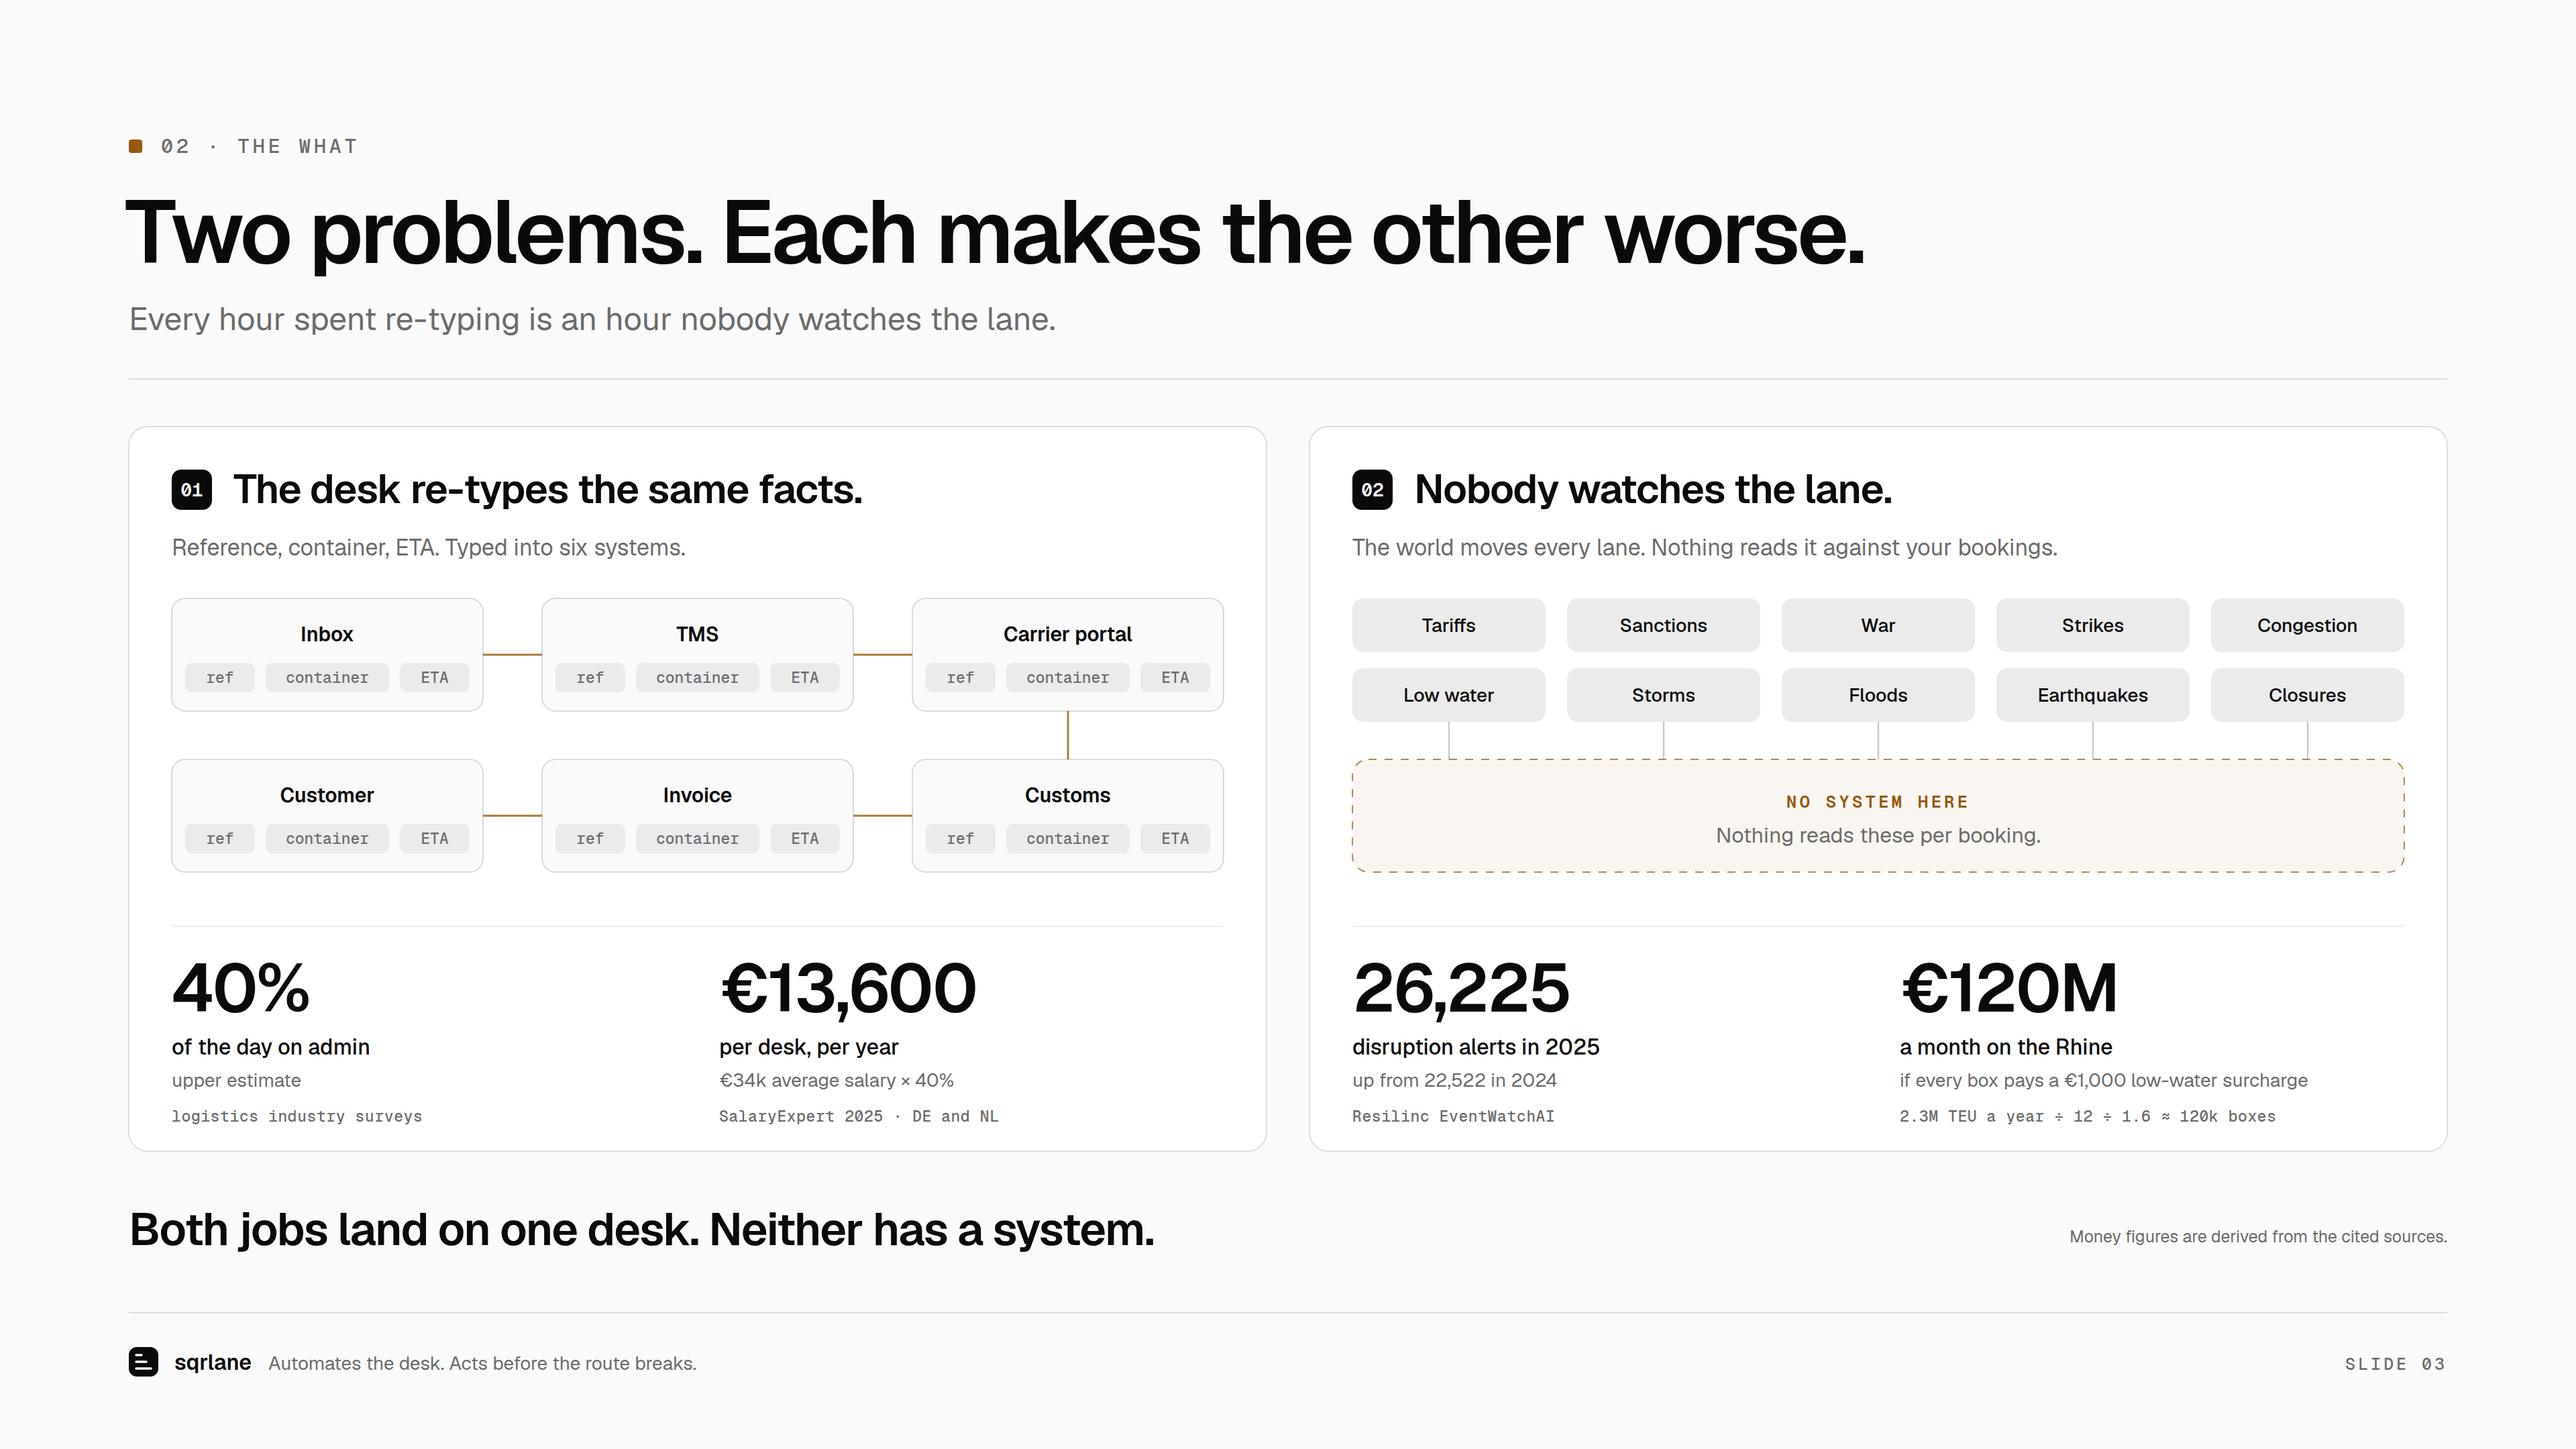
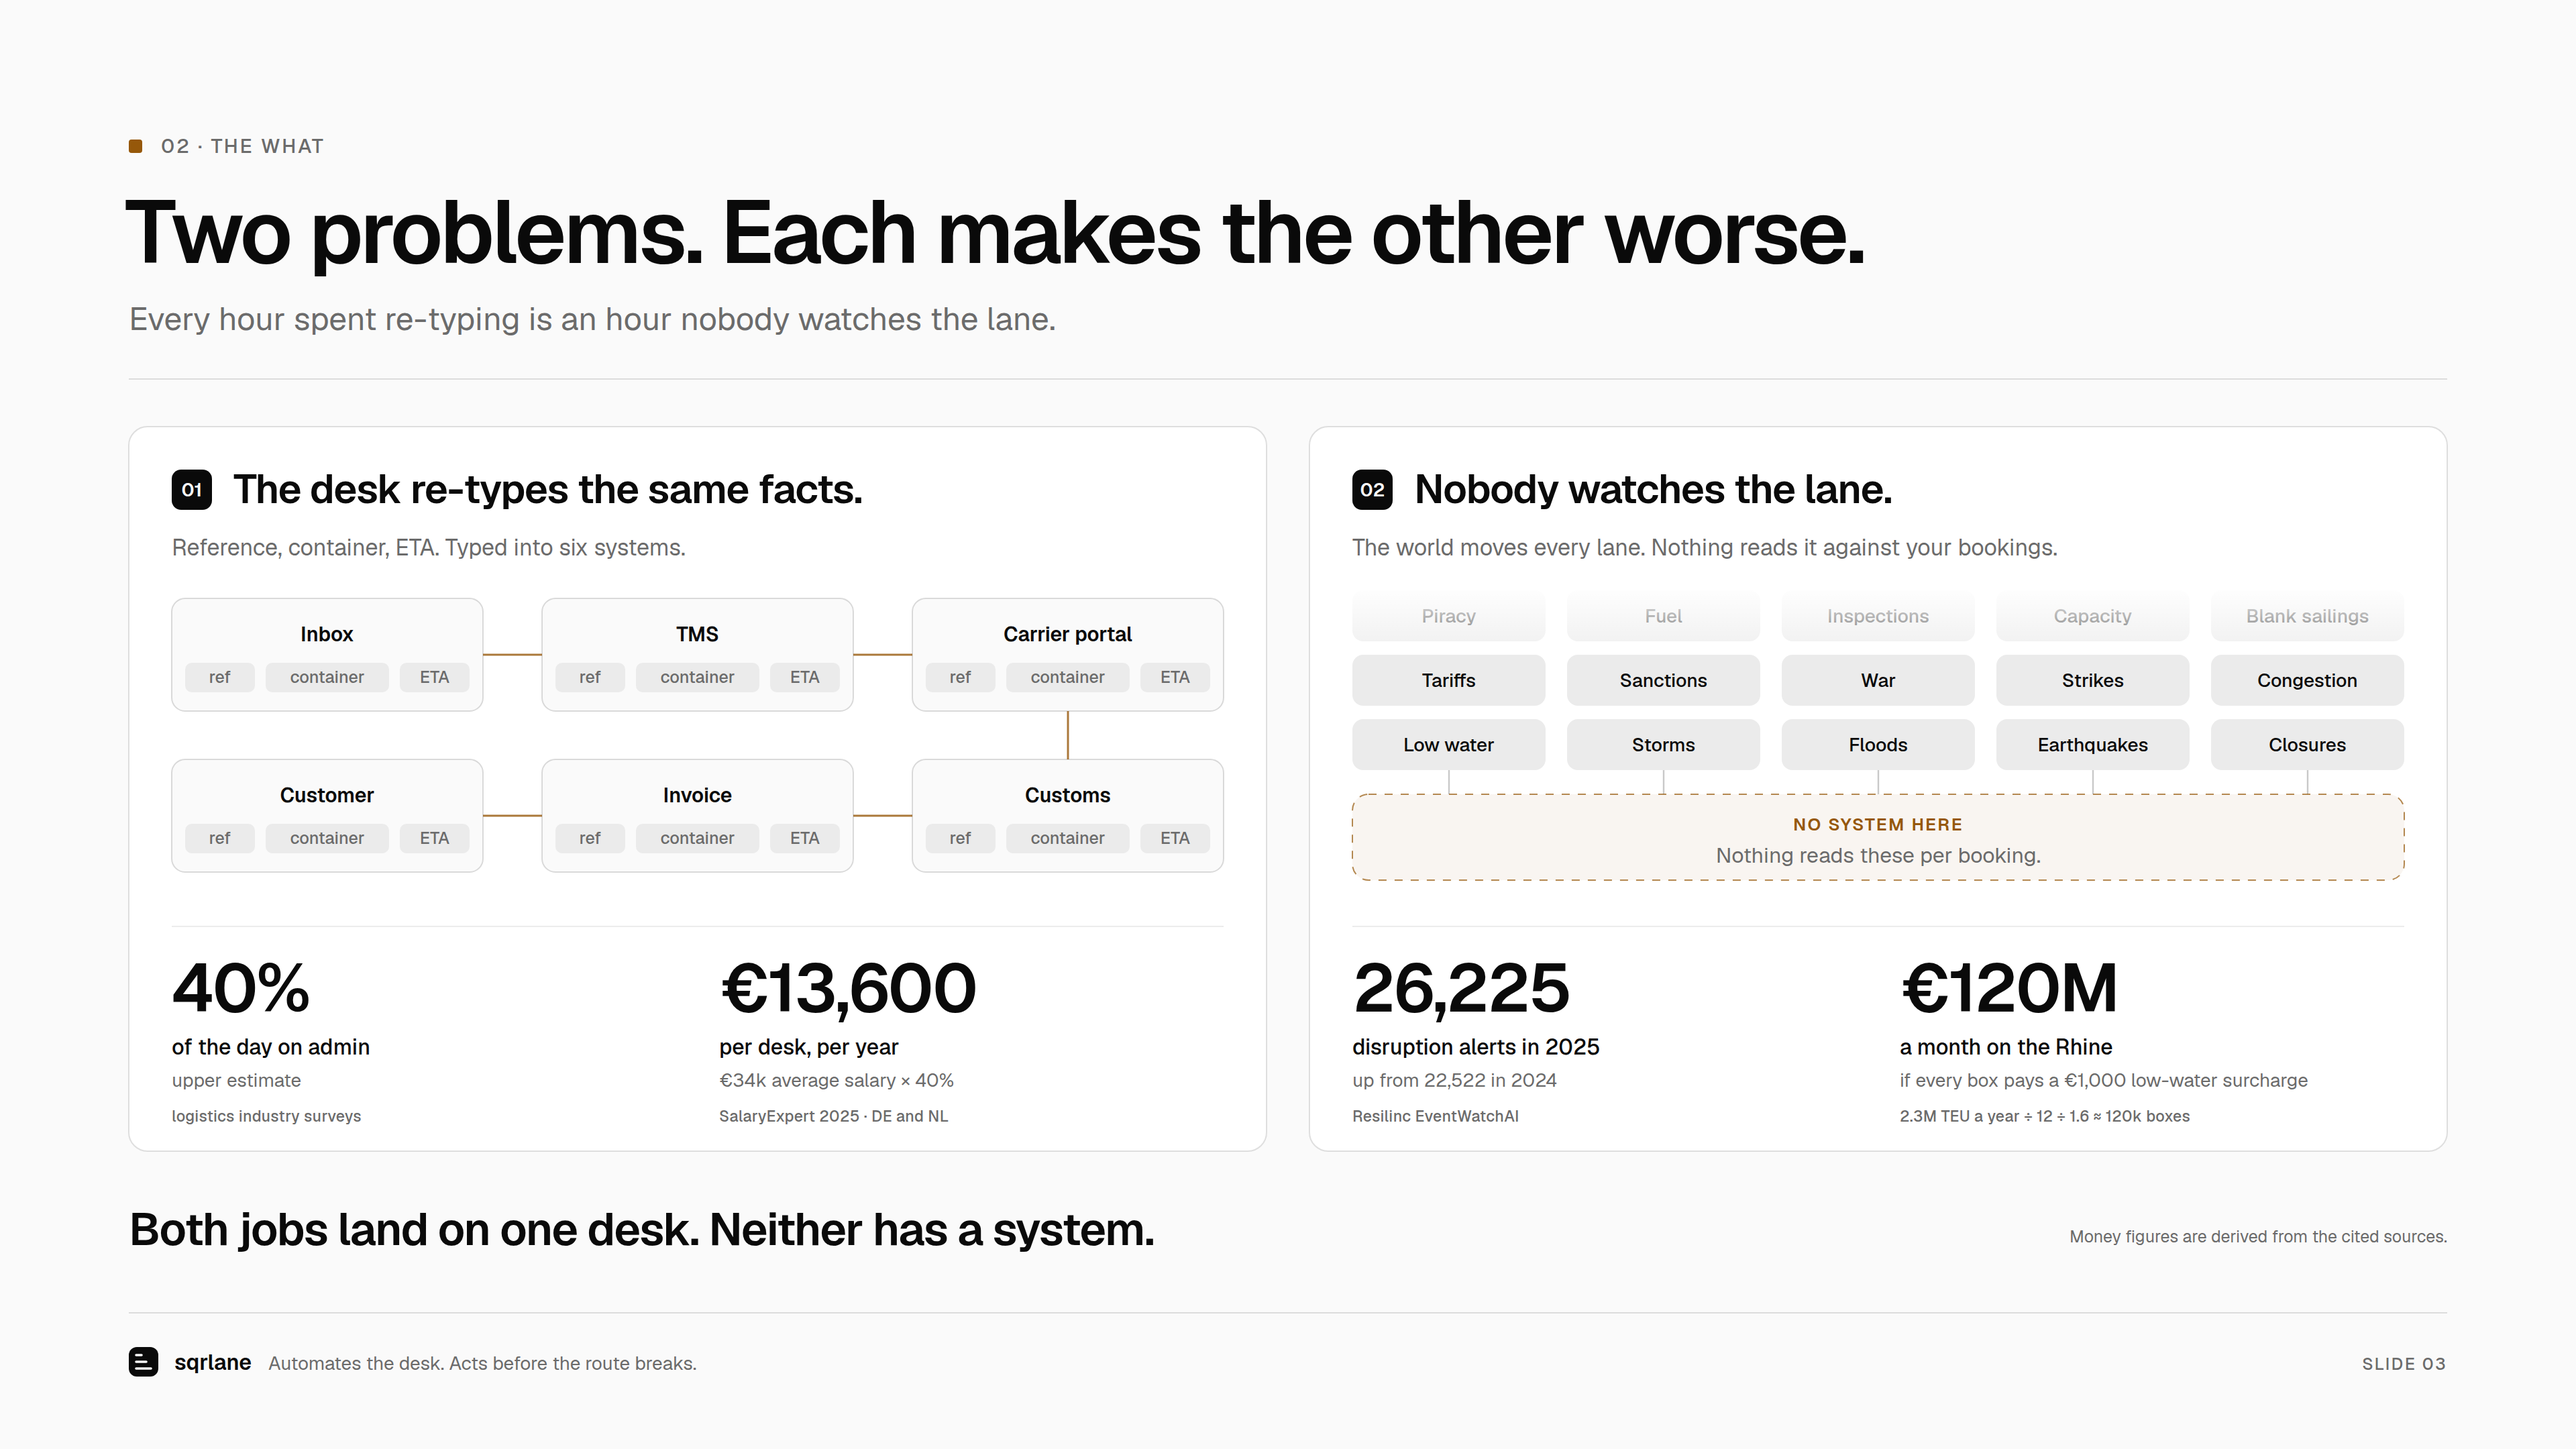
Deck v2 slides 02-03: one typeface, and the faded row of risks
Geist throughout (no mono). Slide 03's risk grid gets a fading row above
it, so the list reads as longer than what is drawn.

Claude-Session: https://claude.ai/code/session_01HbtpjYfXPKy7DdRHDFrJUP

diff --git a/deck/v2/build_03.py b/deck/v2/build_03.py
@@ -36,7 +36,7 @@ for r, names in enumerate(rows):
         for k, f in enumerate(["ref", "container", "ETA"]):
             fw = [52, 92, 52][k]; fx = bx + (BW - 212) / 2 + [0, 60, 160][k]
             s.R(fx, by + 48, fw, 22, TRACK, 5)
-            s.T(fx + fw / 2, by + 63, f, 11.5, 500, MUT, anchor="middle", mono=True)
+            s.T(fx + fw / 2, by + 63, f, 12.5, 500, MUT, anchor="middle")
         s.end()
 s.g("handoffs")
 for a, b in [("Inbox", "TMS"), ("TMS", "Carrier portal"), ("Customer", "Invoice"), ("Invoice", "Customs")]:
@@ -54,20 +54,32 @@ s.end()
 X2 = M + PW + 32
 panel(X2, "02", "Nobody watches the lane.", "The world moves every lane. Nothing reads it against your bookings.", "problem-unwatched")
 risks = [["Tariffs", "Sanctions", "War", "Strikes", "Congestion"], ["Low water", "Storms", "Floods", "Earthquakes", "Closures"]]
-CWd, CHt, CG = 144, 40, 16
+ghost = ["Piracy", "Fuel", "Inspections", "Capacity", "Blank sailings"]
+CWd, CHt, CG = 144, 38, 16
+R0 = PY + 170                      # first solid row
+s.raw('<defs><linearGradient id="fade-up" x1="0" y1="0" x2="0" y2="1">'
+      f'<stop offset="0" stop-color="{CARD}" stop-opacity="1"/>'
+      f'<stop offset="1" stop-color="{CARD}" stop-opacity="0"/></linearGradient></defs>')
+s.g("more-beyond")
+for c, nm in enumerate(ghost):
+    bx = X2 + 32 + c * (CWd + CG)
+    s.R(bx, R0 - 48, CWd, CHt, TRACK, 8, ' fill-opacity="0.7"')
+    s.T(bx + CWd / 2, R0 - 24, nm, 14, 500, MUT, anchor="middle")
+s.R(X2 + 24, R0 - 52, PW - 48, 46, "url(#fade-up)")
+s.end()
 s.g("what-moves-a-lane")
 for r, names in enumerate(risks):
     for c, nm in enumerate(names):
-        bx, by = X2 + 32 + c * (CWd + CG), PY + 128 + r * 52
+        bx, by = X2 + 32 + c * (CWd + CG), R0 + r * 48
         s.R(bx, by, CWd, CHt, TRACK, 8)
-        s.T(bx + CWd / 2, by + 25, nm, 14, 500, INK, anchor="middle")
+        s.T(bx + CWd / 2, by + 24, nm, 14, 500, INK, anchor="middle")
         if r == 1:
-            s.line(bx + CWd / 2, by + CHt, bx + CWd / 2, PY + 248, INK, 0.22, 1.2)
+            s.line(bx + CWd / 2, by + CHt, bx + CWd / 2, R0 + 104, INK, 0.22, 1.2)
 s.end()
 s.g("no-system-here")
-s.R(X2 + 32, PY + 248, PW - 64, 84, AMB, 12, f' fill-opacity="0.06" stroke="{AMB}" stroke-opacity="0.7" stroke-dasharray="6 6"')
-s.T(X2 + PW / 2, PY + 284, "NO SYSTEM HERE", 13, 600, AMB, anchor="middle", ls=2, mono=True)
-s.T(X2 + PW / 2, PY + 310, "Nothing reads these per booking.", 16, 400, MUT, anchor="middle")
+s.R(X2 + 32, R0 + 104, PW - 64, 64, AMB, 12, f' fill-opacity="0.06" stroke="{AMB}" stroke-opacity="0.7" stroke-dasharray="6 6"')
+s.T(X2 + PW / 2, R0 + 131, "NO SYSTEM HERE", 13, 600, AMB, anchor="middle", ls=2, mono=True)
+s.T(X2 + PW / 2, R0 + 155, "Nothing reads these per booking.", 16, 400, MUT, anchor="middle")
 s.end()
 s.rule(PY + 372, 0.08, X2 + 32, PW - 64)
 stat(X2 + 32, "26,225", "disruption alerts in 2025", "up from 22,522 in 2024", "Resilinc EventWatchAI")

diff --git a/deck/v2/kit.py b/deck/v2/kit.py
@@ -13,7 +13,8 @@ class Slide:
                   f'<rect id="background" x="0" y="0" width="{W}" height="{H}" fill="{BG}"/>']
     def raw(self, s): self.o.append(s)
     def T(self, x, y, s, size, weight=400, fill=INK, anchor="start", ls=0, mono=False):
-        fam = "Geist Mono" if mono else "Geist"
+        fam = "Geist"                       # one typeface across the deck
+        if mono: ls = round(ls * 0.6, 2)    # former mono labels: tighter tracking in Geist
         a = f' text-anchor="{anchor}"' if anchor != "start" else ""
         l = f' letter-spacing="{ls}"' if ls else ""
         self.o.append(f'<text x="{x}" y="{y}" font-family="{fam}" font-size="{size}" font-weight="{weight}" fill="{fill}"{a}{l}>{s}</text>')

diff --git a/deck/v2/build_02.py b/deck/v2/build_02.py
@@ -7,7 +7,8 @@ SAGE = "#DBDBCD"
 M, W = 96, 1920
 out = []
 def T(x, y, s, size, weight=400, fill=INK, anchor="start", ls=0, mono=False, idn=None):
-    fam = "Geist Mono" if mono else "Geist"
+    fam = "Geist"
+    if mono: ls = round(ls * 0.6, 2)
     a = f' text-anchor="{anchor}"' if anchor != "start" else ""
     l = f' letter-spacing="{ls}"' if ls else ""
     i = f' id="{idn}"' if idn else ""
